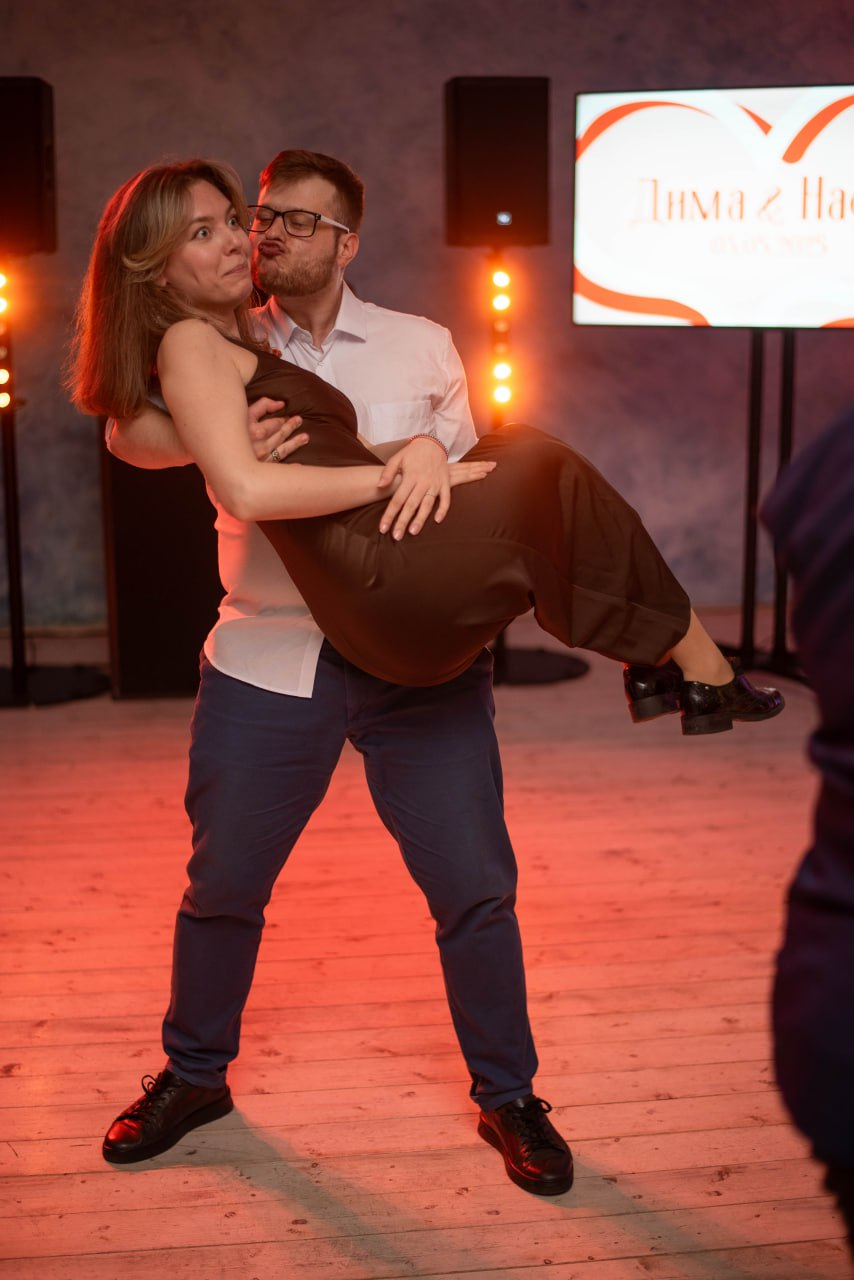
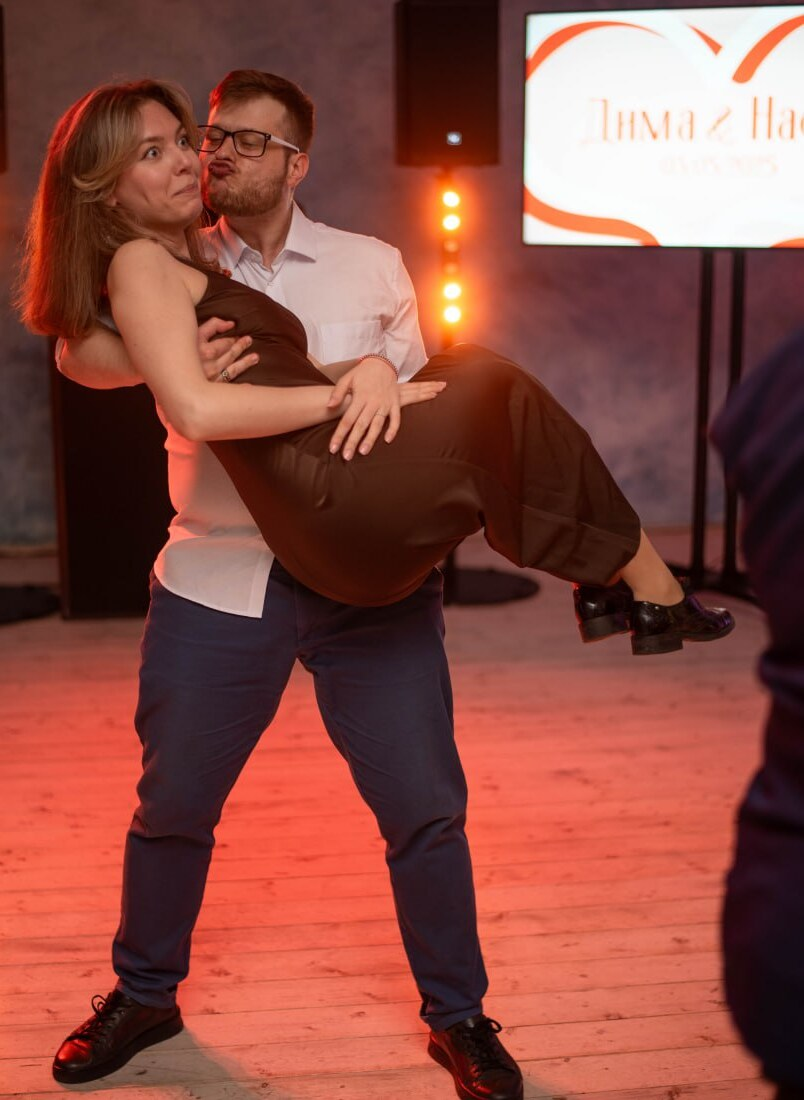
feat: HTML calendar, centered dance crop, larger schedule, two-col extras

diff --git a/css/styles.css b/css/styles.css
@@ -33,23 +33,28 @@ img { display: block; max-width: 100%; height: auto; }
 .hero__date { font: italic 1.3rem var(--serif); color: var(--ink); margin: 0; }
 .section { width: 100%; padding: 5rem 0; text-align: center; }
 .about { display: grid; grid-template-columns: minmax(0, 1fr) minmax(0, 1fr); gap: 3rem; align-items: center; width: min(100% - 4rem, 70rem); margin: 0 auto; }
-.about__photo img { width: 100%; aspect-ratio: 1/1; object-fit: cover; border-radius: .4rem; box-shadow: 0 1.4rem 2.6rem -1.4rem oklch(0 0 0 / .25); }
+.about__photo img { width: 100%; aspect-ratio: 4/5; object-fit: cover; object-position: center 25%; border-radius: .4rem; box-shadow: 0 1.4rem 2.6rem -1.4rem oklch(0 0 0 / .25); }
 .about__text { text-align: left; }
 .about .script { margin-bottom: .3rem; }
 .about h2 { font-size: clamp(2.2rem, 4.5vw, 3.4rem); line-height: .95; margin-bottom: 1.1rem; }
 .about h2 span { color: var(--olive); font-style: italic; }
 .about p { font-size: 1rem; line-height: 1.6; max-width: 32rem; }
 .details { background: oklch(0.96 0.022 90 / .55); }
-.details__head { width: min(100% - 4rem, 64rem); margin: 0 auto 1.6rem; }
+.details__head { width: min(100% - 4rem, 64rem); margin: 0 auto 2rem; }
 .details .script { margin-bottom: .25rem; }
 .details h2 { font-size: clamp(2.2rem, 4.5vw, 3.4rem); }
-.details__calendar { width: min(100% - 4rem, 56rem); margin: 0 auto 2.4rem; }
-.details__calendar img { width: 100%; height: auto; border-radius: .4rem; box-shadow: 0 1.4rem 2.6rem -1.4rem oklch(0 0 0 / .15); }
 .details__grid { list-style: none; padding: 0; margin: 0 auto; display: grid; grid-template-columns: repeat(3, minmax(0, 1fr)); gap: 2.2rem 2.4rem; text-align: left; width: min(100% - 4rem, 64rem); }
 .details__icon { display: inline-grid; place-items: center; width: 2.4rem; height: 2.4rem; border-radius: 50%; color: var(--paper); background: var(--olive); font-size: 1rem; margin-bottom: .6rem; }
 .details h3 { font-size: 1rem; letter-spacing: .12em; text-transform: uppercase; color: var(--olive); margin-bottom: .35rem; font-family: var(--sans); font-weight: 600; }
 .details p { font-size: 1rem; line-height: 1.45; }
 .details p strong { font: 1.3rem var(--serif); font-weight: 500; }
+.calendar { background: oklch(0.96 0.022 90 / .35); }
+.calendar h2 { font-size: clamp(2.4rem, 5vw, 3.8rem); margin: .15rem 0 1.6rem; color: var(--olive); }
+.calendar__grid { width: min(100% - 4rem, 56rem); margin: 0 auto; display: grid; grid-template-columns: repeat(7, minmax(0, 1fr)); column-gap: .35rem; row-gap: .35rem; }
+.calendar__head { font-size: .9rem; letter-spacing: .12em; text-transform: uppercase; color: var(--muted); padding: .6rem 0; border-bottom: 1px solid var(--line); text-align: center; }
+.calendar__day { font-size: 1.3rem; padding: .9rem 0; color: var(--ink); position: relative; text-align: center; min-height: 2.4rem; display: flex; align-items: center; justify-content: center; }
+.calendar__day.is-empty { visibility: hidden; }
+.calendar__day.is-heart { color: var(--paper); background: var(--olive); border-radius: 50%; width: 2.4rem; height: 2.4rem; font-weight: 600; }
 .place { padding-top: 6rem; padding-bottom: 6rem; }
 .place__head { width: min(100% - 4rem, 64rem); margin: 0 auto 1.4rem; }
 .place h2 { font-size: clamp(2.2rem, 4.5vw, 3.4rem); }
@@ -61,19 +66,21 @@ img { display: block; max-width: 100%; height: auto; }
 .button:visited { color: var(--paper); }
 .button:hover, .button:focus-visible { background: var(--olive-dark); transform: translateY(-1px); }
 .schedule { background: var(--olive-dark); color: var(--paper); }
-.schedule h2 { color: var(--paper); }
+.schedule h2 { color: var(--paper); font-size: clamp(2.2rem, 4.5vw, 3.4rem); margin: .15rem 0 1.6rem; }
 .schedule .script { color: oklch(0.9 0.04 110); }
-.timeline--wide { width: min(100% - 4rem, 70rem); margin: 2rem auto 0; padding: 0; list-style: none; display: grid; grid-template-columns: repeat(4, minmax(0, 1fr)); gap: 1.6rem; text-align: left; }
-.timeline--wide li { display: grid; grid-template-columns: 1fr; gap: .35rem; padding: 0 0 0 1rem; border-left: 1px solid oklch(0.9 0.04 110 / .35); }
-.timeline--wide time { font: 1.4rem var(--serif); color: var(--paper); }
-.timeline--wide strong { display: block; font: 1.1rem var(--serif); color: var(--paper); }
-.timeline--wide span { display: block; font-size: .82rem; line-height: 1.45; opacity: .85; }
-.dress { background: oklch(0.96 0.022 90 / .35); }
-.dress__inner { width: min(100% - 4rem, 60rem); margin: 0 auto; }
-.dress h2 { font-size: clamp(2.2rem, 4.5vw, 3.4rem); margin-bottom: 1rem; }
-.dress p { font-size: 1.05rem; line-height: 1.55; }
-.dress p strong { color: var(--olive); }
-.wishes { background: oklch(0.96 0.022 90 / .35); }
+.timeline--wide { width: min(100% - 4rem, 70rem); margin: 0 auto; padding: 0; list-style: none; display: grid; grid-template-columns: repeat(4, minmax(0, 1fr)); gap: 1.8rem; text-align: left; }
+.timeline--wide li { display: grid; grid-template-columns: 1fr; gap: .5rem; padding: 0 0 0 1.2rem; border-left: 2px solid oklch(0.9 0.04 110 / .5); }
+.timeline--wide time { font: 1.7rem var(--serif); color: var(--paper); }
+.timeline--wide strong { display: block; font: 1.35rem var(--serif); color: var(--paper); margin-top: .15rem; }
+.timeline--wide span { display: block; font-size: 1rem; line-height: 1.5; opacity: .9; margin-top: .25rem; }
+.extras { background: oklch(0.96 0.022 90 / .55); }
+.extras__grid { width: min(100% - 4rem, 70rem); margin: 0 auto; display: grid; grid-template-columns: 1fr 1fr; gap: 2.4rem 3rem; text-align: left; }
+.extras__cell h2 { font-size: clamp(1.6rem, 3vw, 2.4rem); margin: .15rem 0 1rem; }
+.extras__cell p { font-size: 1rem; line-height: 1.55; }
+.extras__cell p strong { color: var(--olive); }
+.extras__cell { padding: 1.5rem 0; border-top: 1px solid var(--line); }
+.extras__cell:first-child { border-right: 1px solid var(--line); padding-right: 1.5rem; }
+.extras__cell:last-child { padding-left: 1.5rem; }
 .map h2 { font-size: clamp(2.2rem, 4.5vw, 3.4rem); margin-bottom: 1.4rem; }
 .map__head { width: min(100% - 4rem, 64rem); margin: 0 auto 1.4rem; }
 .map__frame { width: min(100% - 4rem, 64rem); aspect-ratio: 16/9; margin: 0 auto; border-radius: 1rem; overflow: hidden; box-shadow: 0 1.4rem 2.6rem -1.4rem oklch(0 0 0 / .2); background: oklch(0.9 0.012 90); }
@@ -96,6 +103,9 @@ img { display: block; max-width: 100%; height: auto; }
   .about { grid-template-columns: 1fr; gap: 1.5rem; }
   .about__text { text-align: center; }
   .details__grid { grid-template-columns: 1fr; gap: 1.6rem; }
+  .extras__grid { grid-template-columns: 1fr; }
+  .extras__cell:first-child { border-right: 0; border-bottom: 1px solid var(--line); padding-right: 0; padding-bottom: 1.5rem; }
+  .extras__cell:last-child { padding-left: 0; }
   .countdown__grid { gap: 1rem; }
   .section { padding: 3.5rem 0; }
   .timeline--wide { grid-template-columns: 1fr 1fr; }

diff --git a/index.html b/index.html
@@ -46,14 +46,16 @@
         <p class="script">важные детали</p>
         <h2 id="details-title">Важные детали</h2>
       </div>
-      <div class="details__calendar reveal">
-        <img src="assets/calendar.jpg" alt="Календарь свадьбы — 26 сентября 2026" loading="lazy">
-      </div>
       <ul class="details__grid">
         <li class="reveal"><span class="details__icon" aria-hidden="true">♥</span><h3>Дата</h3><p><strong>26 сентября 2026</strong><br>Суббота</p></li>
         <li class="reveal"><span class="details__icon" aria-hidden="true">⏰</span><h3>Сбор гостей</h3><p><strong>14:00</strong><br>Просьба взять хорошее настроение и улыбки</p></li>
         <li class="reveal"><span class="details__icon" aria-hidden="true">⌂</span><h3>Место</h3><p>Ресторан «Яръ»<br>Ленинградский пр-т, 32/2, зал «Зеркальный»</p></li>
       </ul>
+    </section>
+    <section class="section calendar" aria-labelledby="calendar-title">
+      <p class="script reveal">дата свадьбы</p>
+      <h2 id="calendar-title" class="reveal">26 · 09 · 2026</h2>
+      <div class="calendar__grid reveal" id="calendar" role="grid" aria-label="Сентябрь 2026"></div>
     </section>
     <section class="section place" aria-labelledby="place-title">
       <div class="place__head">
@@ -78,18 +80,18 @@
         <li class="reveal"><time>23:00</time><div><strong>Завершение вечера</strong><span>Даже самый прекрасный вечер когда-нибудь заканчивается</span></div></li>
       </ol>
     </section>
-    <section class="section dress" aria-labelledby="dress-title">
-      <div class="dress__inner reveal">
-        <p class="script">дресс-код</p>
-        <h2 id="dress-title">Приходите в коктейльных нарядах</h2>
-        <p>Чтобы подчеркнуть значимость этого события, просим остановить свой выбор на коктейльных нарядах. Цвет не имеет значения. <strong>Милых дам просим оставить белый для невесты.</strong></p>
-      </div>
-    </section>
-    <section class="section wishes" aria-labelledby="wishes-title">
-      <div class="dress__inner reveal">
-        <p class="script">пожелания</p>
-        <h2 id="wishes-title">Пожелания</h2>
-        <p>Если захотите поздравить нас, ваши пожелания в конвертах помогут заложить прочный фундамент для построения нашей новой семьи.</p>
+    <section class="section extras" aria-labelledby="extras-title">
+      <div class="extras__grid">
+        <div class="extras__cell reveal">
+          <p class="script">дресс-код</p>
+          <h2>Приходите в коктейльных нарядах</h2>
+          <p>Чтобы подчеркнуть значимость этого события, просим остановить свой выбор на коктейльных нарядах. Цвет не имеет значения. <strong>Милых дам просим оставить белый для невесты.</strong></p>
+        </div>
+        <div class="extras__cell reveal">
+          <p class="script">пожелания</p>
+          <h2>Пожелания</h2>
+          <p>Если захотите поздравить нас, ваши пожелания в конвертах помогут заложить прочный фундамент для построения нашей новой семьи.</p>
+        </div>
       </div>
     </section>
     <section id="map" class="section map" aria-labelledby="map-title">

diff --git a/js/app.js b/js/app.js
@@ -33,19 +33,19 @@
     const frag = document.createDocumentFragment();
     heads.forEach((h) => {
       const el = document.createElement('span');
-      el.className = 'head';
+      el.className = 'calendar__head';
       el.textContent = h;
       frag.appendChild(el);
     });
     for (let i = 0; i < startWeekday; i += 1) {
       const el = document.createElement('span');
-      el.className = 'day is-empty';
+      el.className = 'calendar__day is-empty';
       el.textContent = '·';
       frag.appendChild(el);
     }
     for (let d = 1; d <= daysInMonth; d += 1) {
       const el = document.createElement('span');
-      el.className = 'day' + (d === 26 ? ' is-heart' : '');
+      el.className = 'calendar__day' + (d === 26 ? ' is-heart' : '');
       el.textContent = d;
       frag.appendChild(el);
     }
